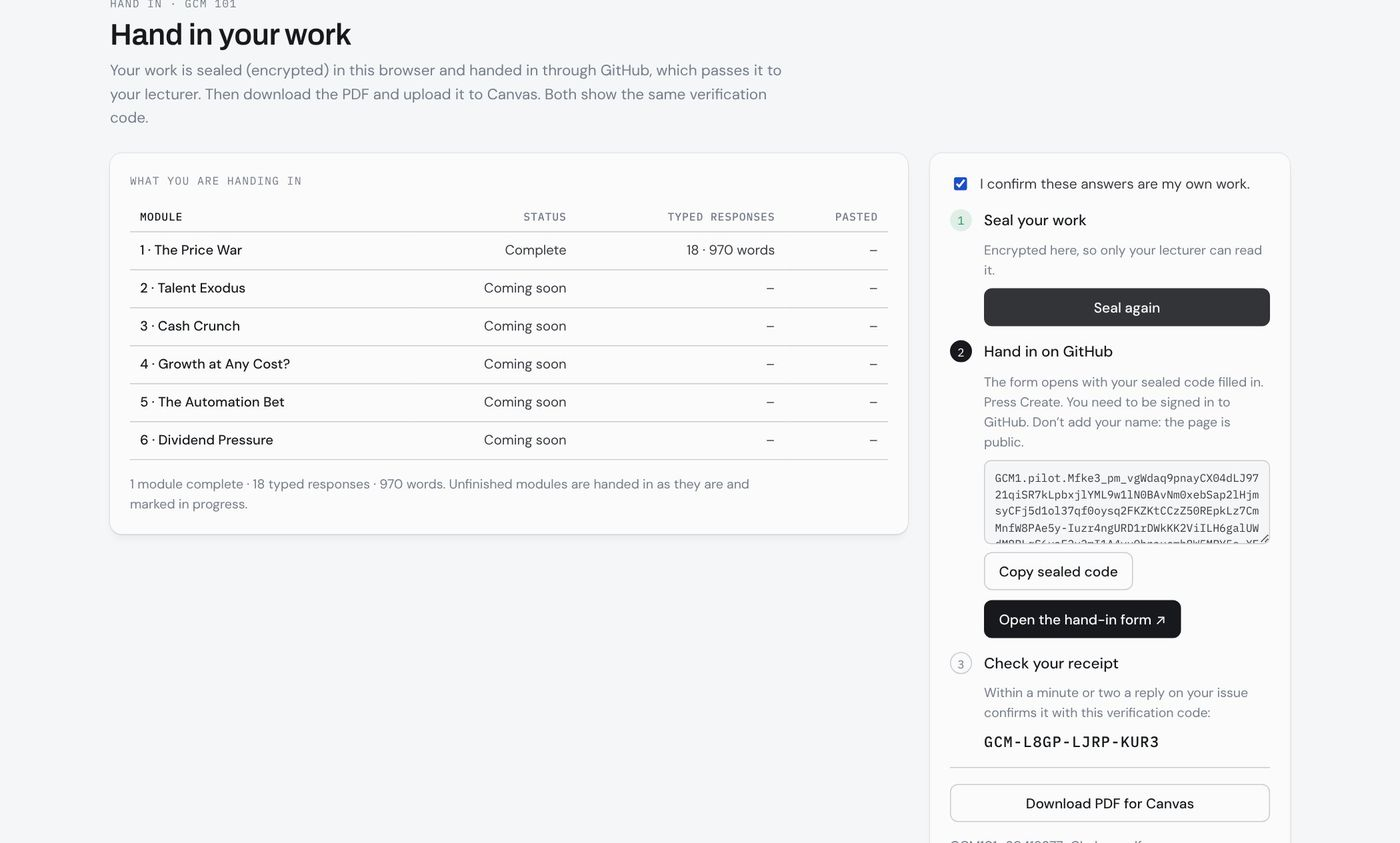
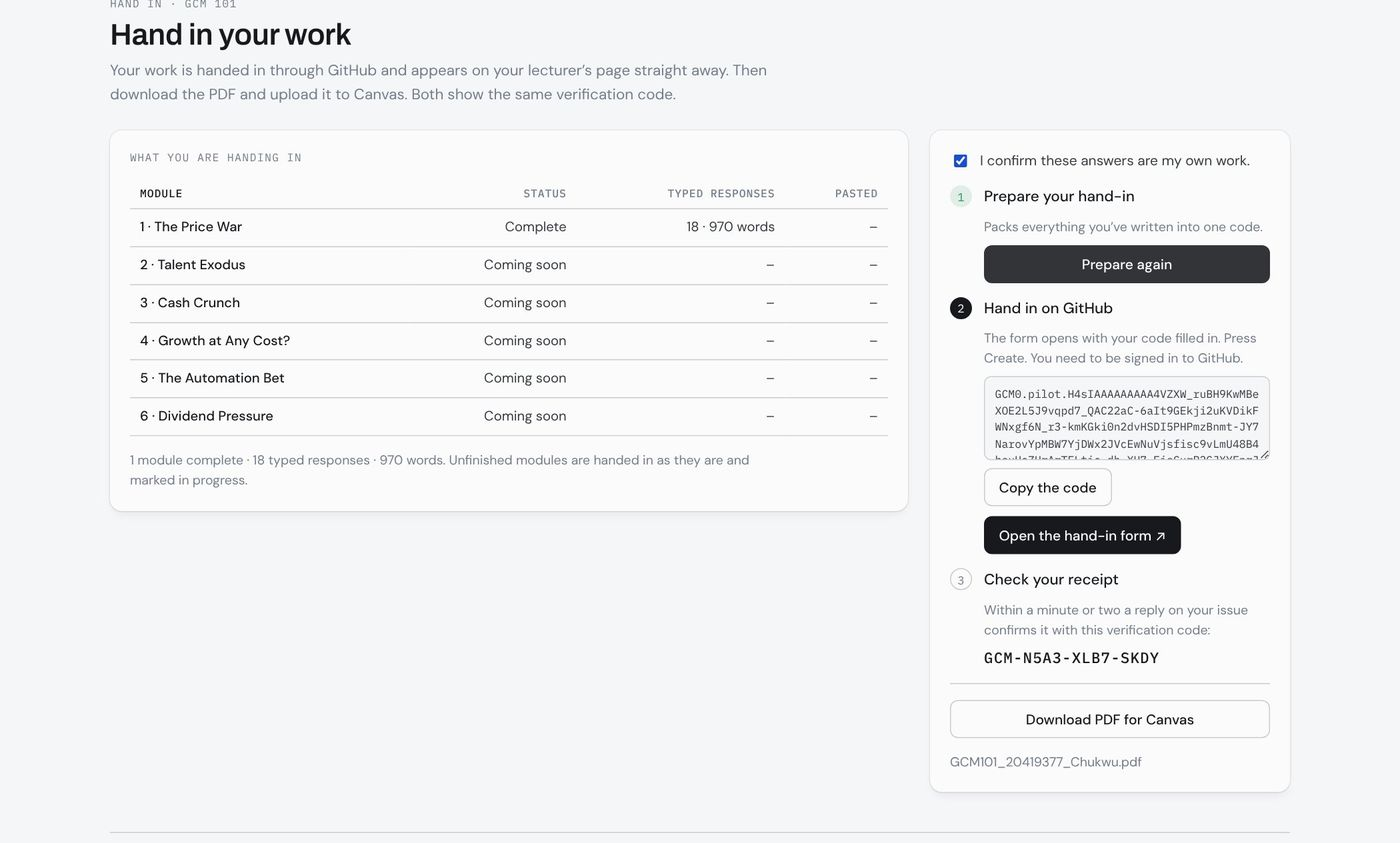
Prototype: hand-ins show on the lecturer page with no key
Hand-ins now use an unencrypted packed code (GCM0) because all pilot data
is fictional. The lecturer page loads hand-in issues from GitHub as soon
as it opens. The intake Action accepts GCM0 without a key; encrypted GCM1
codes and the key tools remain for the real server.

Claude-Session: https://claude.ai/code/session_01MkjXz2xHUTL2tKtducE8V2

diff --git a/src/course/ui/Lecturer.tsx b/src/course/ui/Lecturer.tsx
@@ -1,21 +1,22 @@
-import { useRef, useState } from 'react';
+import { useEffect, useState } from 'react';
 import type { ArchetypeFile } from '../../ceo/archetypes';
 import type { ModuleGrade } from '../grade';
 import { courseById, SUBMISSION_REPO } from '../modules';
 import { stats, validatePayload, verificationCode } from '../payload';
 import { pdfName, submissionPdf } from '../pdf';
 import { download } from '../progress';
-import { findAllSealed, unseal } from '../seal';
+import { findAllSealed, openCode } from '../seal';
 import type { Payload } from '../types';
 import { gradesFor } from './Submit';
 
-// The lecturer's inbox. Hand-ins are public GitHub issues holding sealed codes; this page reads them, opens each with
-// the private key file (asked for the first time it's needed, then remembered on this device; it never leaves the
-// browser), and rebuilds each student's PDF here.
+// The lecturer's inbox. Hand-ins are GitHub issues holding hand-in codes; this page reads them as soon as it opens and
+// rebuilds each student's PDF here. Prototype codes (GCM0) are not encrypted, so no key is needed; an encrypted code
+// (GCM1) opens only if the course key is remembered on this device.
 
 interface Row { issue?: number; url?: string; author?: string; payload: Payload; code: string; superseded: number; grades?: Record<string, ModuleGrade | null> }
 interface Failure { source: string; reason: string }
 const KEY = 'gcm:course:lecturer-key';
+const rememberedKey = (): JsonWebKey | null => { try { return JSON.parse(localStorage.getItem(KEY) || 'null'); } catch { return null; } };
 const csvCell = (v: string | number) => { const s = String(v); return /[",\n]/.test(s) || /^[=+\-@]/.test(s) ? `"${s.replace(/^([=+\-@])/, "'$1").replace(/"/g, '""')}"` : s; };
 
 async function loadIssues(): Promise<{ number: number; html_url: string; user?: { login: string }; body: string | null }[]> {
@@ -25,38 +26,25 @@ async function loadIssues(): Promise<{ number: number; html_url: string; user?: 
     if (r.status === 403) throw new Error('GitHub’s rate limit for this network was reached. Try again in an hour, or paste the codes below.');
     if (!r.ok) throw new Error(`GitHub returned ${r.status}.`);
     const batch = await r.json() as { number: number; html_url: string; user?: { login: string }; body: string | null; pull_request?: unknown }[];
-    out.push(...batch.filter(i => !i.pull_request && i.body?.includes('GCM1.')));
+    out.push(...batch.filter(i => !i.pull_request && /GCM[01]\./.test(i.body ?? '')));
     if (batch.length < 100) break;
   }
   return out;
 }
 
 export default function Lecturer({ archetypes }: { archetypes: ArchetypeFile | null }) {
-  const [key, setKey] = useState<JsonWebKey | null>(() => { try { return JSON.parse(localStorage.getItem(KEY) || 'null'); } catch { return null; } });
   const [rows, setRows] = useState<Row[]>([]), [failures, setFailures] = useState<Failure[]>([]);
-  const [busy, setBusy] = useState(''), [error, setError] = useState(''), [pasted, setPasted] = useState('');
-  const file = useRef<HTMLInputElement>(null), pending = useRef<((k: JsonWebKey) => Promise<void>) | null>(null);
+  const [busy, setBusy] = useState(''), [error, setError] = useState(''), [pasted, setPasted] = useState(''), [loaded, setLoaded] = useState('');
 
-  /** Runs an action with the course key, asking for the key file first if this device doesn't have it yet. */
-  const withKey = (action: (k: JsonWebKey) => Promise<void>) => { if (key) void action(key); else { pending.current = action; file.current?.click(); } };
-  const loadKey = async (text: string) => {
-    setError('');
-    try {
-      const jwk = JSON.parse(text) as JsonWebKey;
-      await crypto.subtle.importKey('jwk', jwk, { name: 'RSA-OAEP', hash: 'SHA-256' }, false, ['decrypt']);
-      setKey(jwk); try { localStorage.setItem(KEY, JSON.stringify(jwk)); } catch { /* memory only */ }
-      const next = pending.current; pending.current = null; if (next) await next(jwk);
-    } catch { setError('That isn’t the course key file. Choose the key file you were given.'); }
-  };
-
-  async function open(key: JsonWebKey, entries: { source: string; text: string; issue?: number; url?: string; author?: string }[]) {
+  async function open(entries: { source: string; text: string; issue?: number; url?: string; author?: string }[]) {
+    const key = rememberedKey();
     const found: Row[] = [], failed: Failure[] = [];
     for (const e of entries) {
       const codes = findAllSealed(e.text);
       if (!codes.length) { failed.push({ source: e.source, reason: 'No sealed code found.' }); continue; }
       for (const c of codes) {
         try {
-          const v = validatePayload(await unseal(c, key));
+          const v = validatePayload(await openCode(c, key));
           if (!v.ok) failed.push({ source: e.source, reason: v.error });
           else found.push({ issue: e.issue, url: e.url, author: e.author, payload: v.payload, code: await verificationCode(v.payload), superseded: 0 });
         } catch (err) { failed.push({ source: e.source, reason: err instanceof Error ? err.message : 'Could not be opened.' }); }
@@ -71,12 +59,13 @@ export default function Lecturer({ archetypes }: { archetypes: ArchetypeFile | n
     setRows([...latest.values()].sort((a, b) => a.payload.student.name.localeCompare(b.payload.student.name)));
     setFailures(failed);
   }
-  const fromGitHub = async (key: JsonWebKey) => {
+  const fromGitHub = async () => {
     setBusy('Reading hand-ins from GitHub…'); setError('');
-    try { const issues = await loadIssues(); await open(key, issues.map(i => ({ source: `Issue #${i.number}`, text: i.body ?? '', issue: i.number, url: i.html_url, author: i.user?.login }))); }
+    try { const issues = await loadIssues(); await open(issues.map(i => ({ source: `Issue #${i.number}`, text: i.body ?? '', issue: i.number, url: i.html_url, author: i.user?.login }))); }
     catch (e) { setError(e instanceof Error ? e.message : 'GitHub could not be read.'); }
-    setBusy('');
+    setLoaded(new Date().toLocaleTimeString('en-GB', { hour: '2-digit', minute: '2-digit' })); setBusy('');
   };
+  useEffect(() => { void fromGitHub(); }, []);
   const gradeAll = async () => {
     if (!archetypes) return;
     for (let i = 0; i < rows.length; i++) {
@@ -104,14 +93,14 @@ export default function Lecturer({ archetypes }: { archetypes: ArchetypeFile | n
   return <section className="stack-lg">
     <h1>Hand-ins</h1>
     <div className="card pad stack-sm">
-      <div className="row"><button className="btn primary" disabled={!!busy} onClick={() => withKey(fromGitHub)}>Load hand-ins</button>
+      <div className="row"><button className="btn primary" disabled={!!busy} onClick={fromGitHub}>Refresh</button>
         <button className="btn" disabled={!!busy || !rows.length || !archetypes} onClick={gradeAll}>Replay all grades</button>
-        <button className="btn" disabled={!rows.length} onClick={csv}>Export CSV</button></div>
-      <details><summary className="small">Or paste sealed codes</summary>
-        <textarea rows={4} value={pasted} onChange={e => setPasted(e.target.value)} placeholder="GCM1.pilot.… (one or many)" />
-        <button className="btn" disabled={!pasted.trim() || !!busy} onClick={() => withKey(k => open(k, [{ source: 'Pasted codes', text: pasted }]))}>Open pasted codes</button>
+        <button className="btn" disabled={!rows.length} onClick={csv}>Export CSV</button>
+        {loaded && <span className="small muted">{rows.length} hand-in{rows.length === 1 ? '' : 's'} · updated {loaded}</span>}</div>
+      <details><summary className="small">Or paste hand-in codes</summary>
+        <textarea rows={4} value={pasted} onChange={e => setPasted(e.target.value)} placeholder="GCM0.pilot.… (one or many)" />
+        <button className="btn" disabled={!pasted.trim() || !!busy} onClick={() => open([{ source: 'Pasted codes', text: pasted }])}>Open pasted codes</button>
       </details>
-      <input ref={file} type="file" accept="application/json,.json" hidden onChange={async e => { const f = e.target.files?.[0]; if (f) await loadKey(await f.text()); else pending.current = null; e.target.value = ''; }} />
     </div>
     {busy && <p className="c-notice" role="status">{busy}</p>}
     {error && <p className="c-notice" role="alert">{error}</p>}

diff --git a/src/course/ui/Submit.tsx b/src/course/ui/Submit.tsx
@@ -5,16 +5,10 @@ import { moduleById, SUBMISSION_REPO } from '../modules';
 import { buildPayload, stats, verificationCode } from '../payload';
 import { pdfName, submissionPdf } from '../pdf';
 import { download, readHandin, saveHandin, type Handin } from '../progress';
-import { seal } from '../seal';
+import { pack } from '../seal';
 import type { Course, Payload, Progress } from '../types';
 import { grade } from './grading';
 
-/** The course's public key, published with the site by `npm run course:keygen`. */
-async function publicKey(): Promise<JsonWebKey> {
-  const r = await fetch(`${import.meta.env.BASE_URL}course/submission-key.json`, { cache: 'no-cache' });
-  if (!r.ok) throw new Error('The course key isn’t published yet, so work can’t be sealed. Ask your lecturer.');
-  return (await r.json()).publicKey;
-}
 /** Grades for every finished module in a submission, replayed in a worker. */
 export async function gradesFor(payload: Payload, archetypes: ArchetypeFile): Promise<Record<string, ModuleGrade | null>> {
   const out: Record<string, ModuleGrade | null> = {};
@@ -39,12 +33,12 @@ export default function Submit({ course, progress, archetypes, home }: { course:
   useEffect(() => { setCopied(''); }, [handin?.code]);
 
   const doSeal = async () => {
-    setBusy('Sealing…'); setError('');
+    setBusy('Preparing…'); setError('');
     try {
       const payload = buildPayload(progress, course, new Date().toISOString());
-      const h = { payload, sealed: await seal(payload, course.id, await publicKey()), code: await verificationCode(payload) };
+      const h = { payload, sealed: await pack(payload, course.id), code: await verificationCode(payload) };
       saveHandin(course.id, h); setHandin(h);
-    } catch (e) { setError(e instanceof Error ? e.message : 'Sealing failed.'); }
+    } catch (e) { setError(e instanceof Error ? e.message : 'Preparing the hand-in failed.'); }
     setBusy('');
   };
   const copy = async () => {
@@ -63,7 +57,7 @@ export default function Submit({ course, progress, archetypes, home }: { course:
 
   return <section className="stack-lg">
     <div className="banner"><div className="stack-sm"><span className="eyebrow">Hand in · {course.code}</span><h1>Hand in your work</h1>
-      <p className="muted lede">Your work is sealed (encrypted) in this browser and handed in through GitHub, which passes it to your lecturer. Then download the PDF and upload it to Canvas. Both show the same verification code.</p></div></div>
+      <p className="muted lede">Your work is handed in through GitHub and appears on your lecturer’s page straight away. Then download the PDF and upload it to Canvas. Both show the same verification code.</p></div></div>
     <div className="submit">
       <div className="card pad stack">
         <span className="eyebrow">What you are handing in</span>
@@ -77,15 +71,15 @@ export default function Submit({ course, progress, archetypes, home }: { course:
       </div>
       <aside className="card pad stack sendbox">
         <label className="check"><input type="checkbox" checked={agree} onChange={e => setAgree(e.target.checked)} /><span>I confirm these answers are my own work.</span></label>
-        <div className={`hstep ${handin && !changed ? 'done' : 'now'}`}><i>1</i><div className="stack-sm"><b>Seal your work</b><span className="small muted">Encrypted here, so only your lecturer can read it.</span>
-          <button className="btn primary" disabled={!agree || !details || !!busy || !s.responses} onClick={doSeal}>{handin && !changed ? 'Seal again' : 'Seal my work'}</button>
-          {changed && <span className="small warn-text">You’ve changed your work since sealing. Seal again before handing in.</span>}
+        <div className={`hstep ${handin && !changed ? 'done' : 'now'}`}><i>1</i><div className="stack-sm"><b>Prepare your hand-in</b><span className="small muted">Packs everything you’ve written into one code.</span>
+          <button className="btn primary" disabled={!agree || !details || !!busy || !s.responses} onClick={doSeal}>{handin && !changed ? 'Prepare again' : 'Prepare my hand-in'}</button>
+          {changed && <span className="small warn-text">You’ve changed your work since preparing it. Prepare it again before handing in.</span>}
         </div></div>
         {handin && <>
           <div className="hstep now"><i>2</i><div className="stack-sm"><b>Hand in on GitHub</b>
-            <span className="small muted">{issue!.prefilled ? 'The form opens with your sealed code filled in. Press Create.' : 'Copy the code, open the form, paste it into the box and press Create.'} You need to be signed in to GitHub. Don’t add your name: the page is public.</span>
+            <span className="small muted">{issue!.prefilled ? 'The form opens with your code filled in. Press Create.' : 'Copy the code, open the form, paste it into the box and press Create.'} You need to be signed in to GitHub.</span>
             <textarea id="sealed-code" className="sealed" readOnly value={handin.sealed} rows={4} onFocus={e => e.currentTarget.select()} />
-            <div className="row"><button className="btn" onClick={copy}>Copy sealed code</button><a className="btn primary" href={issue!.url} target="_blank" rel="noopener noreferrer">Open the hand-in form ↗</a></div>
+            <div className="row"><button className="btn" onClick={copy}>Copy the code</button><a className="btn primary" href={issue!.url} target="_blank" rel="noopener noreferrer">Open the hand-in form ↗</a></div>
             {copied && <span className="small" role="status">{copied}</span>}
           </div></div>
           <div className="hstep"><i>3</i><div className="stack-sm"><b>Check your receipt</b><span className="small muted">Within a minute or two a reply on your issue confirms it with this verification code:</span><code className="vcode">{handin.code}</code></div></div>

diff --git a/scripts/course-intake.ts b/scripts/course-intake.ts
@@ -4,10 +4,11 @@ import type { CompanyDataset } from '../src/ontology/types';
 import { gradeModule, moduleStart } from '../src/course/grade';
 import { courseById, moduleById } from '../src/course/modules';
 import { stats, validatePayload, verificationCode } from '../src/course/payload';
-import { findSealed, unseal } from '../src/course/seal';
+import { findSealed, isPacked, openCode } from '../src/course/seal';
 
-// The hand-in intake, run by .github/workflows/course-intake.yml when a hand-in issue opens. It opens the sealed code
-// with the private key from Actions secrets, checks every field, replays the decisions, and writes the public reply.
+// The hand-in intake, run by .github/workflows/course-intake.yml when a hand-in issue opens. It opens the hand-in code
+// (prototype GCM0 codes need no key; encrypted GCM1 codes need the SUBMISSION_PRIVATE_KEY secret), checks every field,
+// replays the decisions, and writes the public reply.
 // The reply goes on a public issue, so it carries the verification code and counts only: no name, ID or grade.
 // Writes the reply to $INTAKE_COMMENT and status=received|invalid|unconfigured to $GITHUB_OUTPUT.
 
@@ -17,17 +18,17 @@ const finish = async (status: 'received' | 'invalid' | 'unconfigured', body: str
   if (process.env.GITHUB_OUTPUT) await appendFile(process.env.GITHUB_OUTPUT, `status=${status}\n`);
   console.log(`${status}\n${body}`);
 };
-const retry = 'Go back to the **Submit** page, seal your work again and open a new hand-in. Your saved work is still in your browser.';
+const retry = 'Go back to the **Hand in** page, prepare your hand-in again and open a new issue. Your saved work is still in your browser.';
 
 try {
   const event = JSON.parse(await readFile(process.env.GITHUB_EVENT_PATH ?? '', 'utf8').catch(() => '{}')) as { issue?: { body?: string | null } };
   const body = (event.issue?.body ?? process.env.ISSUE_BODY ?? '').slice(0, 200_000), code = findSealed(body);
   const keyText = process.env.SUBMISSION_PRIVATE_KEY?.trim();
-  if (!code) await finish('invalid', `**Not received.** This issue doesn’t contain a sealed submission code (it starts with \`GCM1.\`).\n\n${retry}`);
-  else if (!keyText) await finish('unconfigured', '**Saved, not yet checked.** The course key isn’t set up on this repository, so the hand-in couldn’t be opened and checked. Your sealed code is kept here, and your lecturer can still open it.');
+  if (!code) await finish('invalid', `**Not received.** This issue doesn’t contain a hand-in code (it starts with \`GCM0.\`).\n\n${retry}`);
+  else if (!isPacked(code) && !keyText) await finish('unconfigured', '**Saved, not yet checked.** The course key isn’t set up on this repository, so the hand-in couldn’t be opened and checked. Your sealed code is kept here, and your lecturer can still open it.');
   else {
     let opened;
-    try { opened = validatePayload(await unseal(code, JSON.parse(keyText) as JsonWebKey)); }
+    try { opened = validatePayload(await openCode(code, keyText ? JSON.parse(keyText) as JsonWebKey : null)); }
     catch (e) { opened = { ok: false as const, error: e instanceof Error ? e.message : 'The code could not be opened.' }; }
     if (!opened.ok) await finish('invalid', `**Not received.** ${opened.error}\n\n${retry}`);
     else {

diff --git a/src/course/seal.ts b/src/course/seal.ts
@@ -41,9 +41,33 @@ export async function seal(value: unknown, course: string, publicKey: JsonWebKey
   return [SEAL_PREFIX, course.replace(/[^A-Za-z0-9_-]/g, ''), b64(wrapped), b64(iv), b64(body)].join('.');
 }
 
-/** The first sealed code in some text (an issue body, a pasted list), or null. */
+// PROTOTYPE format (GCM0): the same submission gzipped and base64url-encoded, but NOT encrypted, so a hand-in can be
+// read by anyone who has the code. The pilot uses it because all its data is fictional; the real server will use GCM1.
+export const PACK_PREFIX = 'GCM0';
+export async function pack(value: unknown, course: string): Promise<string> {
+  const plain = await pipe(new TextEncoder().encode(JSON.stringify(value)), new CompressionStream('gzip'));
+  return [PACK_PREFIX, course.replace(/[^A-Za-z0-9_-]/g, ''), b64(plain)].join('.');
+}
+export const isPacked = (code: string) => code.startsWith(`${PACK_PREFIX}.`);
+export async function unpack(code: string): Promise<unknown> {
+  if (code.length > MAX_SEALED) throw new Error('The hand-in code is too long.');
+  const [prefix, , body] = code.trim().split('.');
+  if (prefix !== PACK_PREFIX || !body) throw new Error('This is not a hand-in code.');
+  let bytes: Uint8Array;
+  try { bytes = await pipe(unb64(body), new DecompressionStream('gzip'), MAX_PLAIN); }
+  catch { throw new Error('The code could not be read: it is incomplete or edited.'); }
+  return JSON.parse(new TextDecoder().decode(bytes));
+}
+/** Opens either format; GCM1 needs the course private key. */
+export async function openCode(code: string, privateKey?: JsonWebKey | null): Promise<unknown> {
+  if (isPacked(code)) return unpack(code);
+  if (!privateKey) throw new Error('This hand-in is encrypted and needs the course key.');
+  return unseal(code, privateKey);
+}
+
+/** The first hand-in code in some text (an issue body, a pasted list), or null. */
 export const findSealed = (text: string) => findAllSealed(text)[0] ?? null;
-export const findAllSealed = (text: string) => [...text.matchAll(/GCM1\.[A-Za-z0-9_-]+\.[A-Za-z0-9_-]+\.[A-Za-z0-9_-]+\.[A-Za-z0-9_-]+/g)].map(m => m[0]).filter(c => c.length <= MAX_SEALED);
+export const findAllSealed = (text: string) => [...text.matchAll(/GCM1\.[A-Za-z0-9_-]+\.[A-Za-z0-9_-]+\.[A-Za-z0-9_-]+\.[A-Za-z0-9_-]+|GCM0\.[A-Za-z0-9_-]+\.[A-Za-z0-9_-]+/g)].map(m => m[0]).filter(c => c.length <= MAX_SEALED);
 export const sealedCourse = (code: string) => code.split('.')[1] ?? '';
 
 export async function unseal(code: string, privateKey: JsonWebKey): Promise<unknown> {

diff --git a/public/universities/index.html b/public/universities/index.html
@@ -150,7 +150,7 @@ tr:last-child td{border-bottom:0}
       <figure class="shot" style="margin:0"><img src="img/decision.jpg" alt="Year 1 decision: the board memo, four decision cards plus hold course, and a required written reason." loading="lazy"><figcaption>Every decision needs a written reason naming the concept it relies on.</figcaption></figure>
       <figure class="shot" style="margin:0"><img src="img/debrief.jpg" alt="Debrief: outcome A, judgement A, a three-futures table and the score effect of each decision." loading="lazy"><figcaption>The debrief: outcome and judgement grades, three futures, and what each decision did to the score.</figcaption></figure>
       <figure class="shot" style="margin:0"><img src="img/check.jpg" alt="End-of-module check with multiple-choice feedback and written answers." loading="lazy"><figcaption>The end-of-module check: instant feedback, then model answers for the written questions.</figcaption></figure>
-      <figure class="shot" style="margin:0"><img src="img/handin.jpg" alt="Hand-in page: the work is sealed, handed in, and the PDF downloaded for Canvas." loading="lazy"><figcaption>Hand-in: the work is sealed (encrypted) in the browser, sent to the lecturer, and downloaded as a PDF for Canvas.</figcaption></figure>
+      <figure class="shot" style="margin:0"><img src="img/handin.jpg" alt="Hand-in page: the work is handed in and the PDF downloaded for Canvas." loading="lazy"><figcaption>Hand-in: the work goes to the lecturer’s page in one step, and downloads as a PDF for Canvas.</figcaption></figure>
       <figure class="shot" style="margin:0"><div class="pdfs"><img src="img/pdf-1.jpg" alt="PDF cover page with the verification code and a summary per module." loading="lazy"><img src="img/pdf-2.jpg" alt="PDF module page with decisions, reasons and the concepts in the student’s own words." loading="lazy"></div><figcaption>The submission PDF: a cover with the verification code, then every decision, reason and written answer.</figcaption></figure>
       <figure class="shot" style="margin:0"><img src="img/lecturer.jpg" alt="Lecturer view listing a hand-in with modules completed, typed words, grades and verification code." loading="lazy"><figcaption>The lecturer view: every hand-in opened and re-graded, with word counts, paste flags and a CSV export.</figcaption></figure>
     </div>

diff --git a/tests/course.test.ts b/tests/course.test.ts
@@ -8,7 +8,7 @@ import { gradeModule, moduleStart } from '../src/course/grade';
 import { courseById, modules, moduleById } from '../src/course/modules';
 import { buildPayload, canonical, stats, validatePayload, verificationCode } from '../src/course/payload';
 import { submissionPdf } from '../src/course/pdf';
-import { findSealed, generateKeys, seal, unseal } from '../src/course/seal';
+import { findAllSealed, findSealed, generateKeys, openCode, pack, seal, unpack, unseal } from '../src/course/seal';
 import { answer, complete, wordCount } from '../src/course/text';
 import { MIN_WORDS, type Progress } from '../src/course/types';
 
@@ -70,6 +70,20 @@ test('a submission seals, opens and validates; edits change its verification cod
   const other = await generateKeys();
   await assert.rejects(unseal(code, other.privateKey));
   await assert.rejects(unseal(code.slice(0, -8) + 'AAAAAAAA', privateKey));
+});
+
+test('prototype hand-in codes (GCM0) open without a key; encrypted ones still need it', async () => {
+  const payload = buildPayload(finished(), course, '2026-10-15T21:14:00.000Z');
+  const code = await pack(payload, course.id);
+  assert.match(code, /^GCM0\.pilot\.[A-Za-z0-9_-]+$/);
+  assert.equal(findSealed(`Hand-in code\n\n${code}\n`), code);
+  const opened = validatePayload(await openCode(code));
+  assert.ok(opened.ok && canonical(opened.payload) === canonical(payload));
+  await assert.rejects(unpack(code.slice(0, -10)));
+  const { publicKey, privateKey } = await generateKeys(), sealed = await seal(payload, course.id, publicKey);
+  assert.deepEqual(findAllSealed(`${code} and ${sealed}`), [code, sealed]);
+  await assert.rejects(openCode(sealed), /needs the course key/);
+  assert.ok(validatePayload(await openCode(sealed, privateKey)).ok);
 });
 
 test('validation rejects malformed or invented content and recomputes word counts', () => {

diff --git a/docs/COURSE.md b/docs/COURSE.md
@@ -22,27 +22,23 @@ That is 18 typed responses per module. Pasting is allowed but **flagged** in the
 ## Hand-in: GitHub Issues and Actions, for now
 
 ```
-Browser: seal (gzip, then AES-GCM, with the key wrapped by RSA-OAEP)
+Browser: packs the submission into one code (GCM0: gzip + base64url, NOT encrypted)
   → GitHub issue form (.github/ISSUE_TEMPLATE/submission.yml)
   → Action .github/workflows/course-intake.yml (scripts/course-intake.ts)
-      opens it with the SUBMISSION_PRIVATE_KEY secret, validates every field, replays the decisions,
-      replies with a receipt and verification code, labels the issue (received or invalid) and closes it
-  → Lecturer page (#/course/lecturer): loads the hand-in issues, opens them with the private key file
-      in the browser, and rebuilds each student's PDF
+      validates every field, replays the decisions, replies with a receipt and verification code,
+      labels the issue (received or invalid) and closes it
+  → Lecturer page (#/course/lecturer): reads the hand-in issues from GitHub as soon as it opens,
+      lists every student, and rebuilds each student's PDF
 ```
 
-- The repository is public, so issues are public. A hand-in issue shows only the sealed code and the student's GitHub username. The bot's reply carries no name, ID or grade.
+- **Prototype only: hand-ins are not encrypted.** All pilot data is fictional, so anyone who opens a hand-in issue can read it. This keeps the demo to one step: a student hands in and the work appears on the lecturer page, with no key to manage.
 - Grades are never sent. They are recomputed from the decisions wherever a hand-in is read: in the browser, in the Action and on the lecturer page.
 - The **verification code** (`GCM-XXXX-XXXX-XXXX`) is a SHA-256 fingerprint of the submission. The student's PDF and the lecturer's rebuilt PDF are byte-for-byte identical (checked by `tests/course-browser.mjs`).
-- Students need a GitHub account. The final version replaces the issue and the Action with a server endpoint that accepts the same sealed payload (`src/course/payload.ts`), so the rest stays as it is.
+- Students need a GitHub account. The real version replaces the issue and the Action with a server endpoint and university sign-in.
 
-### Setup (once)
+### Encryption, for later
 
-1. `npm run course:keygen` writes the public key to `public/course/submission-key.json` (commit it) and the private key to `course-private-key.json` (git ignores it).
-2. In the repository, go to **Settings → Secrets and variables → Actions → New repository secret**, and add `SUBMISSION_PRIVATE_KEY` with the contents of the private key file.
-3. Give the private key file to the lecturer, who loads it on `#/course/lecturer`. It never leaves their browser.
-
-Without the secret, hand-ins are still kept as issues, and the bot replies "Saved, not yet checked". Codes sealed with an older key need that older private key to open them.
+`src/course/seal.ts` also implements an encrypted format (GCM1: gzip, then AES-GCM, with the key wrapped by RSA-OAEP), and every reader still accepts it. `npm run course:keygen` makes the key pair; the intake Action opens GCM1 codes with the `SUBMISSION_PRIVATE_KEY` secret, and the lecturer page opens them only if the key is remembered on that device. Switch the hand-in page back to `seal()` when real student data is involved.
 
 ### Known limits of the prototype
 
@@ -55,7 +51,7 @@ Without the secret, hand-ins are still kept as issues, and the bot replies "Save
 | Path | What it does |
 | --- | --- |
 | `src/course/modules.ts` | Courses and module content: concepts, check questions, planned modules |
-| `src/course/seal.ts` | Sealing and opening (Web Crypto; the same code runs in the browser, tests and the Action) |
+| `src/course/seal.ts` | Hand-in codes: the prototype's packed format and the encrypted format for later (the same code runs in the browser, tests and the Action) |
 | `src/course/payload.ts` | Building, validating and fingerprinting a hand-in |
 | `src/course/grade.ts`, `grade.worker.ts` | Replaying decisions into outcome and judgement grades |
 | `src/course/pdf.ts` | The submission PDF (pdf-lib) |
